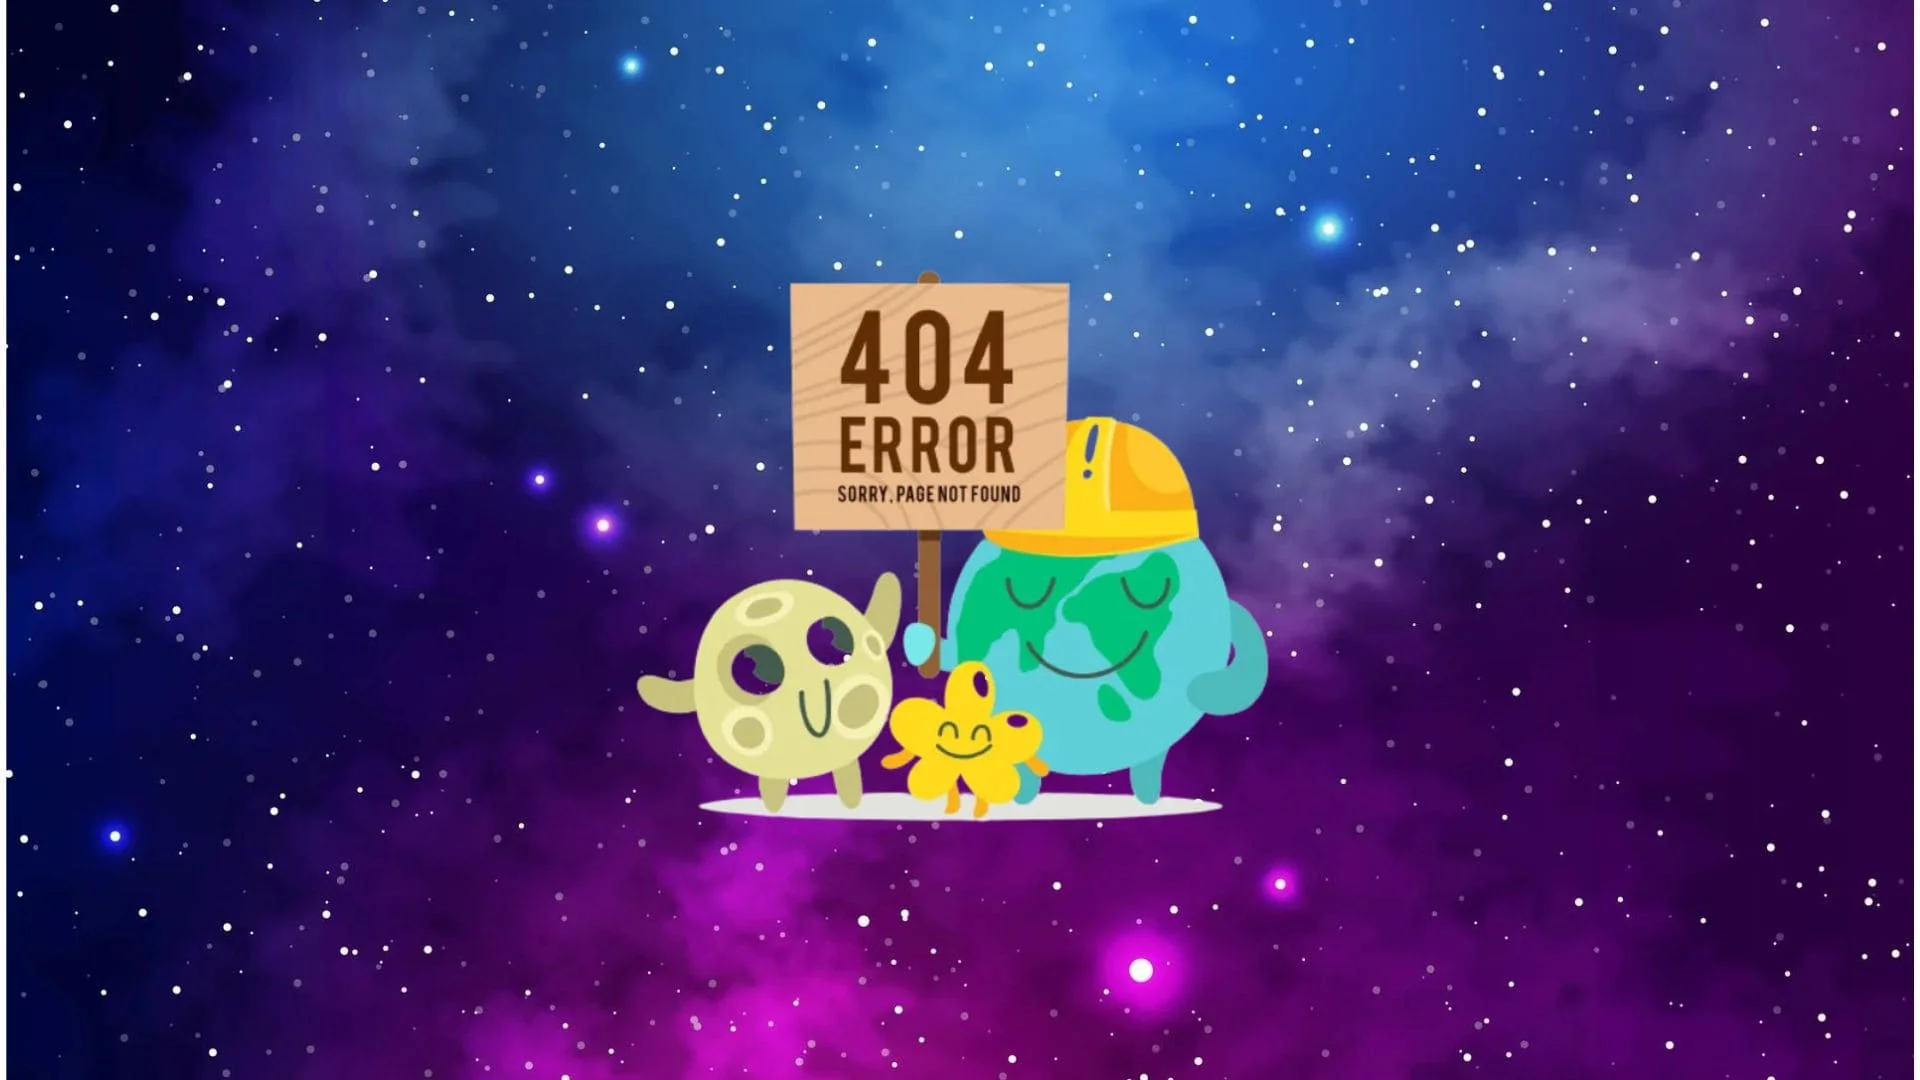
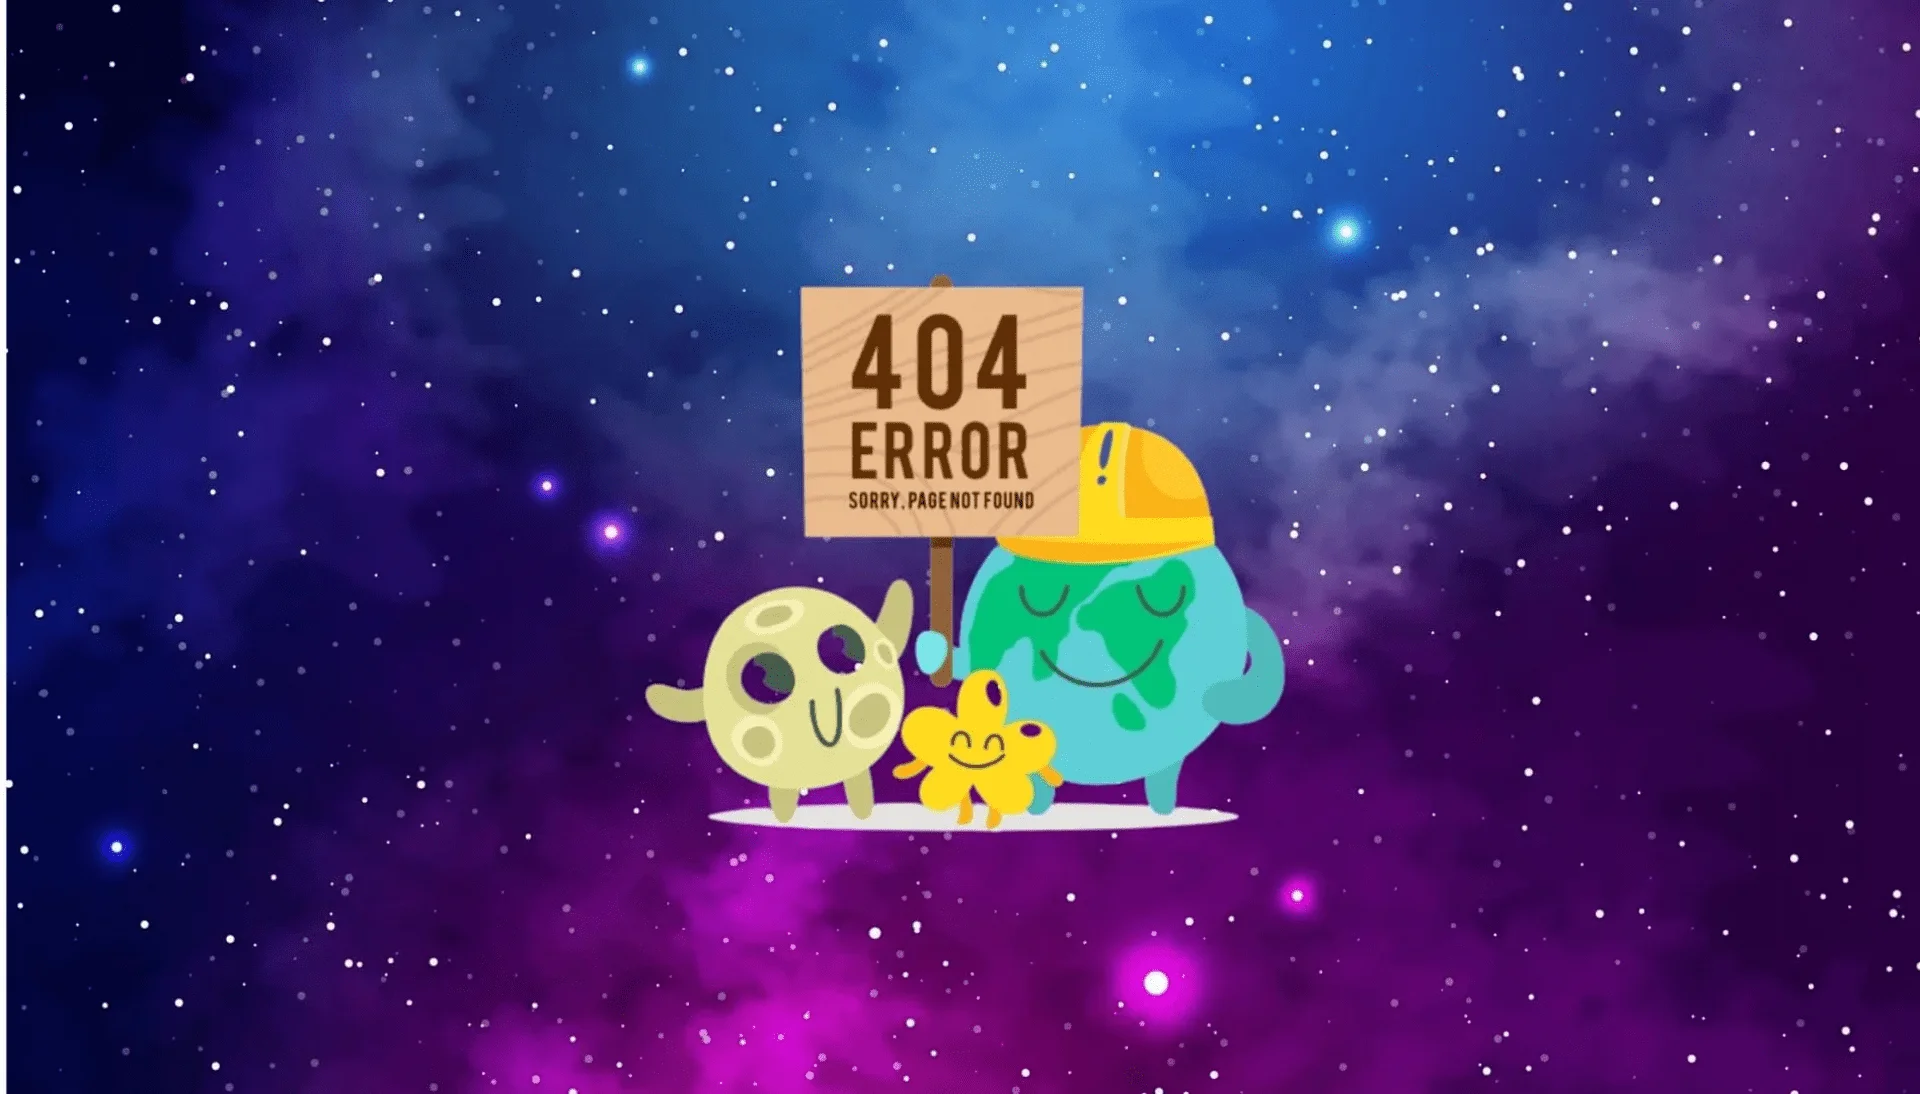
update responsive

diff --git a/pages/404.html b/pages/404.html
@@ -43,8 +43,10 @@
             </nav>
         </header>
         <main>
-            <section class="d-flex justify-content-center container">
-                <img class="imagenPantallaCompleta" srcset="../assets/img/error404/fondo-error404-400.png 767w, ../assets/img/error404/fondo-error404-1920.png 1920w" src="../assets/img/error404/fondo-error404-1920.png" alt="Imagen animada del planeta tierra sonriendo con un casco de construcción, junto con la Luna y una estrella sonriendo, sosteniendo entre los tres un cartel que dice 'Error 404, disculpe, página no encontrada'. A su vez esta imagen animada tiene de fondo un cielo estrellado.">
+            <section class="container">
+                <div class="d-flex justify-content-center overflow-hidden">
+                    <img class="imagenPantallaCompleta" srcset="../assets/img/error404/fondo-error404-400.webp 767w, ../assets/img/error404/fondo-error404-1920.webp 1920w" src="../assets/img/error404/fondo-error404-1920.webp" alt="Imagen animada del planeta tierra sonriendo con un casco de construcción, junto con la Luna y una estrella sonriendo, sosteniendo entre los tres un cartel que dice 'Error 404, disculpe, página no encontrada'. A su vez esta imagen animada tiene de fondo un cielo estrellado.">
+                </div>
             </section>
         </main>
         <footer class="container-fluid espaciadoChico espaciadoSuperior">
